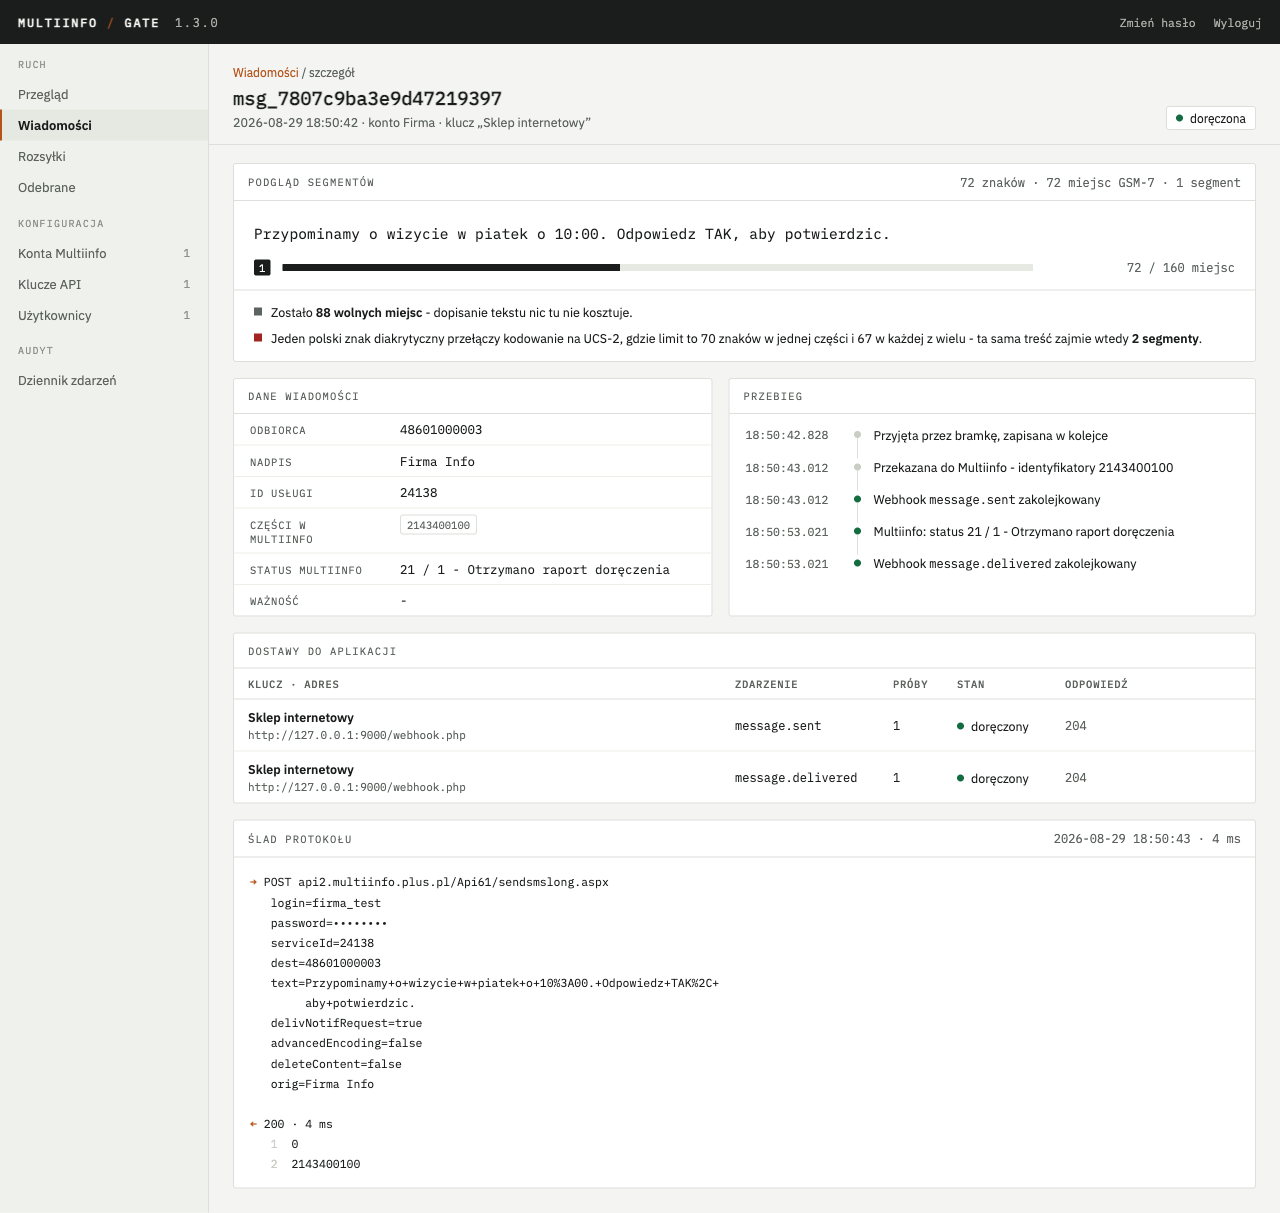
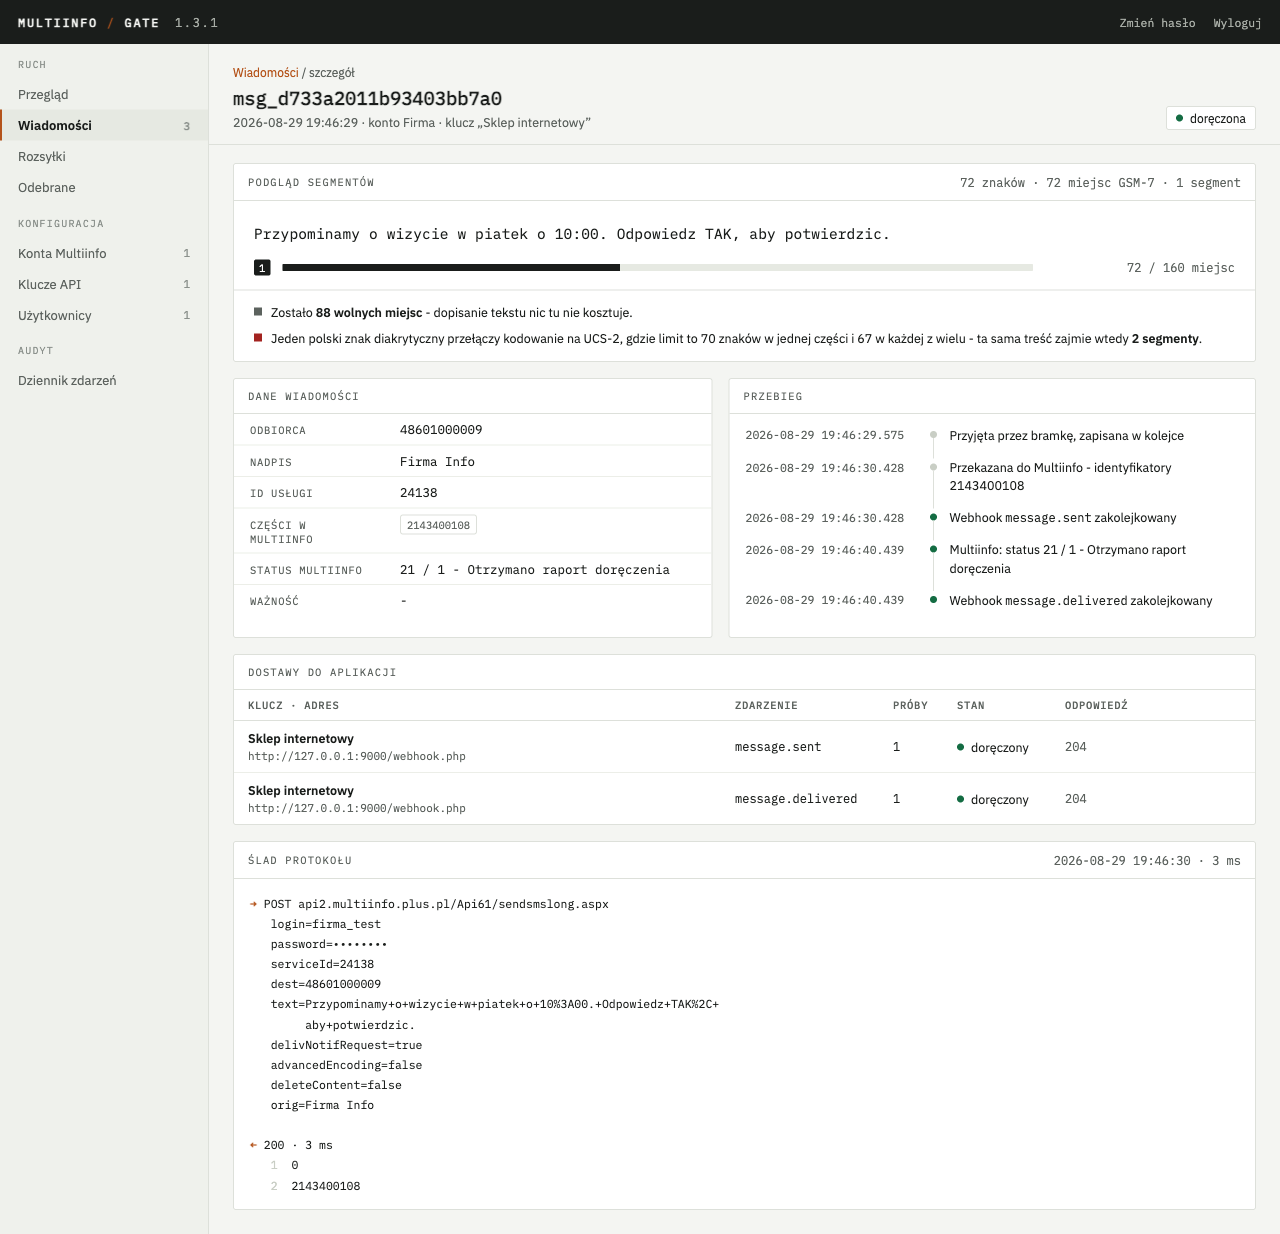
docs: zrzuty listy wiadomości, szczegółów i odebranej z pełną datą w kolumnach

diff --git a/src/admin/views/messages.ts b/src/admin/views/messages.ts
@@ -91,15 +91,15 @@ export function messagesPage(data: MessagesData): string {
     </div>
 
     <div class="panel">
-      <table>
+      <table style="table-layout: fixed;">
         <tr>
-          <th style="width: 150px;">Czas</th>
-          <th style="width: 132px;">Identyfikator</th>
-          <th style="width: 124px;">Numer</th>
+          <th class="nw" style="width: 134px;">Czas</th>
+          <th style="width: 168px;">Identyfikator</th>
+          <th style="width: 82px;">Numer</th>
           <th>Treść</th>
-          <th style="width: 78px;">Kodowanie</th>
-          <th style="width: 62px;">Części</th>
-          <th style="width: 148px;">Status</th>
+          <th style="width: 62px;">Kodowanie</th>
+          <th style="width: 44px;">Części</th>
+          <th class="nw" style="width: 96px;">Status</th>
         </tr>
         ${rows}
       </table>
